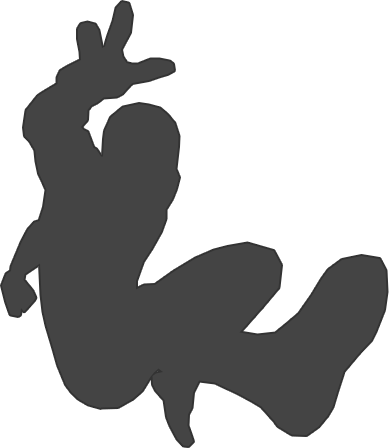
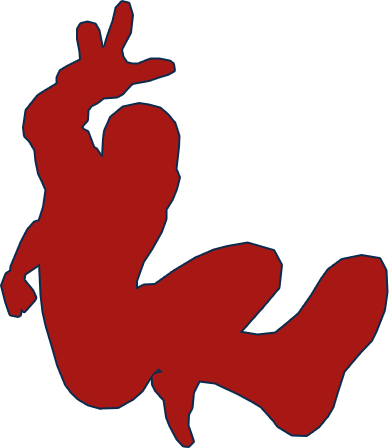
redesigned colors and animation

diff --git a/css/main.min.css b/css/main.min.css
@@ -1,1 +1,1 @@
-html{width:100%;height:100%;min-width:100%;min-height:100%;overflow:hidden;}html body{width:100%;height:100%;min-width:100%;min-height:100%;overflow:hidden;background:#222;}html body .thanos-tribute-container{width:100%;height:100%;min-width:100%;min-height:100%;margin-top:10%;position:relative;margin-left:25%;}html body .thanos-tribute-container .particles{position:relative;grid-area:1/1/2/2;}html body .thanos-tribute-container .particles-canvas{position:absolute;pointer-events:none;top:50%;left:10%;transform:translate3d(-50%,-50%,0);}html body .thanos-tribute-container .particles-wrapper{position:relative;display:inline-block;overflow:hidden;}html body .thanos-tribute-container .spider-man{background-image:url("../img/spiderman.png");background-repeat:no-repeat;width:389px;height:448px;border:0;animation-name:spiderMove;animation-duration:300ms;}@keyframes spiderMove{from{margin-left:4%;}to{margin-left:0%;}}html body .thanos-tribute-container .thanos{position:absolute;top:0;left:25%;width:644px;height:834px;background:url("../img/thanos.png") no-repeat;background-size:contain;z-index:4;}
+html{width:100%;height:100%;min-width:100%;min-height:100%;overflow:hidden;}html body{width:100%;height:100%;min-width:100%;min-height:100%;overflow:hidden;background:#e8e8e7;}html body .thanos-tribute-container{width:100%;height:100%;min-width:100%;min-height:100%;margin-top:10%;position:relative;margin-left:25%;}html body .thanos-tribute-container .particles{position:relative;grid-area:1/1/2/2;}html body .thanos-tribute-container .particles-canvas{position:absolute;pointer-events:none;top:50%;left:10%;transform:translate3d(-50%,-50%,0);}html body .thanos-tribute-container .particles-wrapper{position:relative;display:inline-block;overflow:hidden;}html body .thanos-tribute-container .spider-man{background-image:url("../img/spiderman.png");background-repeat:no-repeat;width:389px;height:448px;border:0;margin-left:20%;transition:margin-left 600ms ease;}html body .thanos-tribute-container .spider-man.punch{margin-left:0%;}html body .thanos-tribute-container .thanos{position:absolute;top:0;left:25%;width:644px;height:834px;background:url("../img/thanos.png") no-repeat;background-size:contain;z-index:4;}

diff --git a/css/main.scss b/css/main.scss
@@ -13,7 +13,8 @@ html {
         min-width: 100%;
         min-height: 100%;
         overflow: hidden;
-        background: #222;
+        background: #e8e8e7;
+
 
         .thanos-tribute-container {
             width: 100%;
@@ -32,7 +33,7 @@ html {
             .particles-canvas {
                 position: absolute;
                 pointer-events: none;
-                top: 50%; 
+                top: 50%;
                 left: 10%;
                 transform: translate3d(-50%,-50%,0);
             }
@@ -49,16 +50,10 @@ html {
                 width: 389px;
                 height: 448px;
                 border: 0;
-                animation-name: spiderMove;
-                animation-duration: 300ms;
-            }
+                margin-left: 20%;
+                transition: margin-left 600ms ease;
 
-            @keyframes spiderMove {
-                from {
-                    margin-left: 4%;
-                }
-
-                to {
+                &.punch {
                     margin-left: 0%;
                 }
             }
@@ -66,7 +61,7 @@ html {
             .thanos {
                 position: absolute;
                 top: 0px;
-                left: 25%; 
+                left: 25%;
                 width: 644px;
                 height: 834px;
                 background: url("../img/thanos.png") no-repeat;
@@ -76,4 +71,3 @@ html {
         }
     }
 }
-

diff --git a/js/thanos-tribute.js b/js/thanos-tribute.js
@@ -14,7 +14,7 @@ $( function(){
             particlesAmountCoefficient: 4,
             oscillationCoefficient: 2
             ,direction: 'top'
-            ,color: '#333'
+            ,color: '#a71814'
             ,duration: 10000
         },
 
@@ -22,18 +22,20 @@ $( function(){
             var bttn = $(".spider-man")[0];
             var particles = new Particles(bttn, self.options);
 
-            setTimeout( function() {
-                if ( !particles.isAnimating()){ 
-                    particles.disintegrate();
-                }
-            }, 2000);
-
+            if ( !particles.isAnimating()){ 
+                particles.disintegrate();
+            }
         };
         
         return {
             init: function(){
                 self.container = $(".thanos-tribute-container");
-                self.init();
+                setTimeout( function() {
+                    $(".spider-man").addClass("punch");
+                    setTimeout( function() {
+                        self.init();
+                    }, 1300);
+                }, 800);
             }
         }
     };

diff --git a/css/main.css b/css/main.css
@@ -10,7 +10,7 @@
     min-width: 100%;
     min-height: 100%;
     overflow: hidden;
-    background: #222; }
+    background: #e8e8e7; }
     html body .thanos-tribute-container {
       width: 100%;
       height: 100%;
@@ -38,14 +38,10 @@
         width: 389px;
         height: 448px;
         border: 0;
-        animation-name: spiderMove;
-        animation-duration: 300ms; }
-
-@keyframes spiderMove {
-  from {
-    margin-left: 4%; }
-  to {
-    margin-left: 0%; } }
+        margin-left: 20%;
+        transition: margin-left 600ms ease; }
+        html body .thanos-tribute-container .spider-man.punch {
+          margin-left: 0%; }
       html body .thanos-tribute-container .thanos {
         position: absolute;
         top: 0px;
